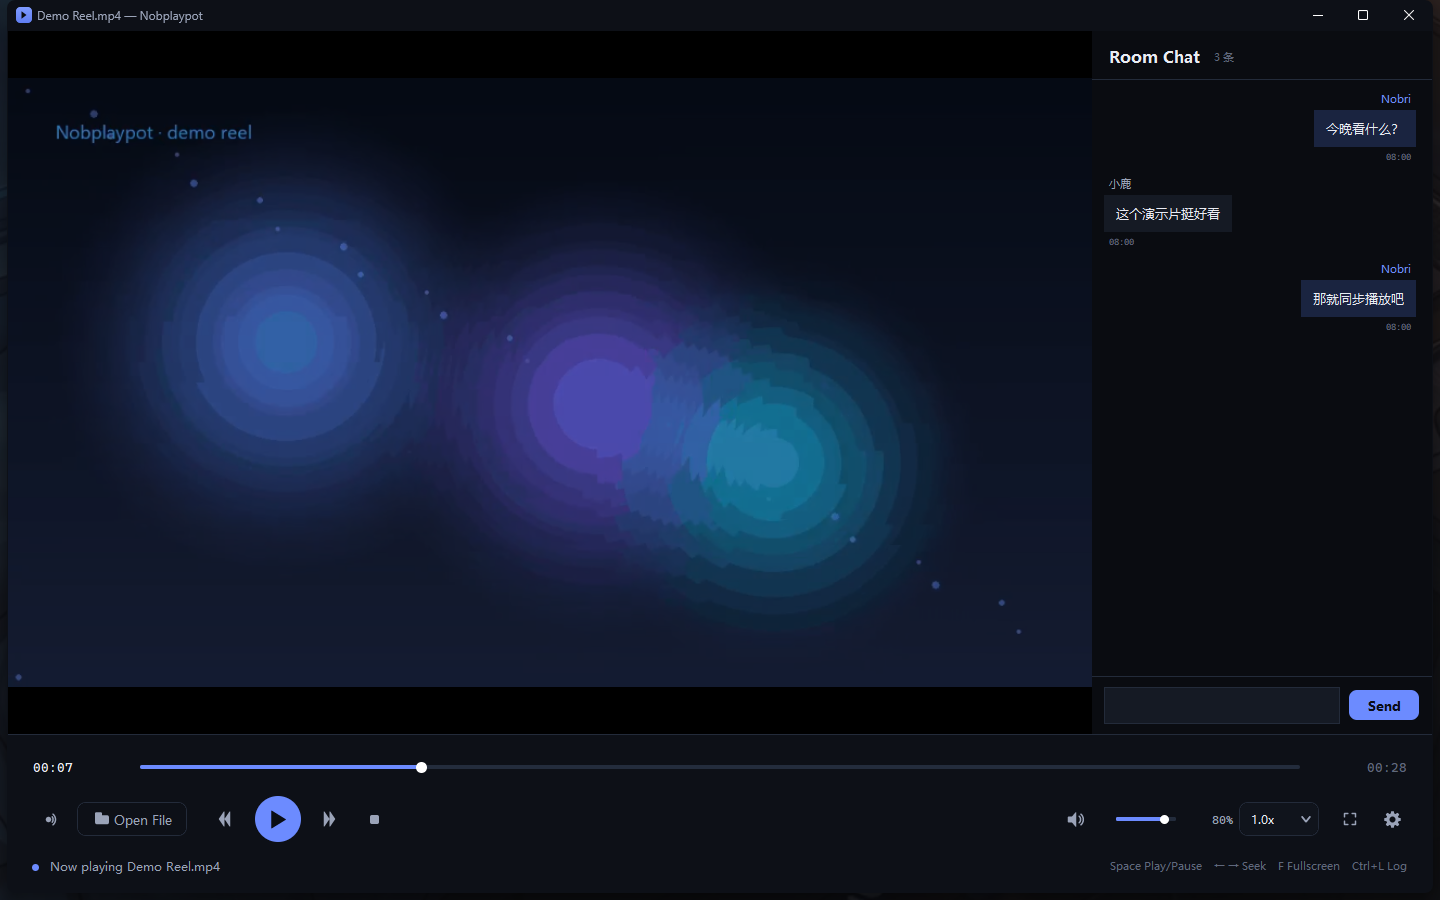
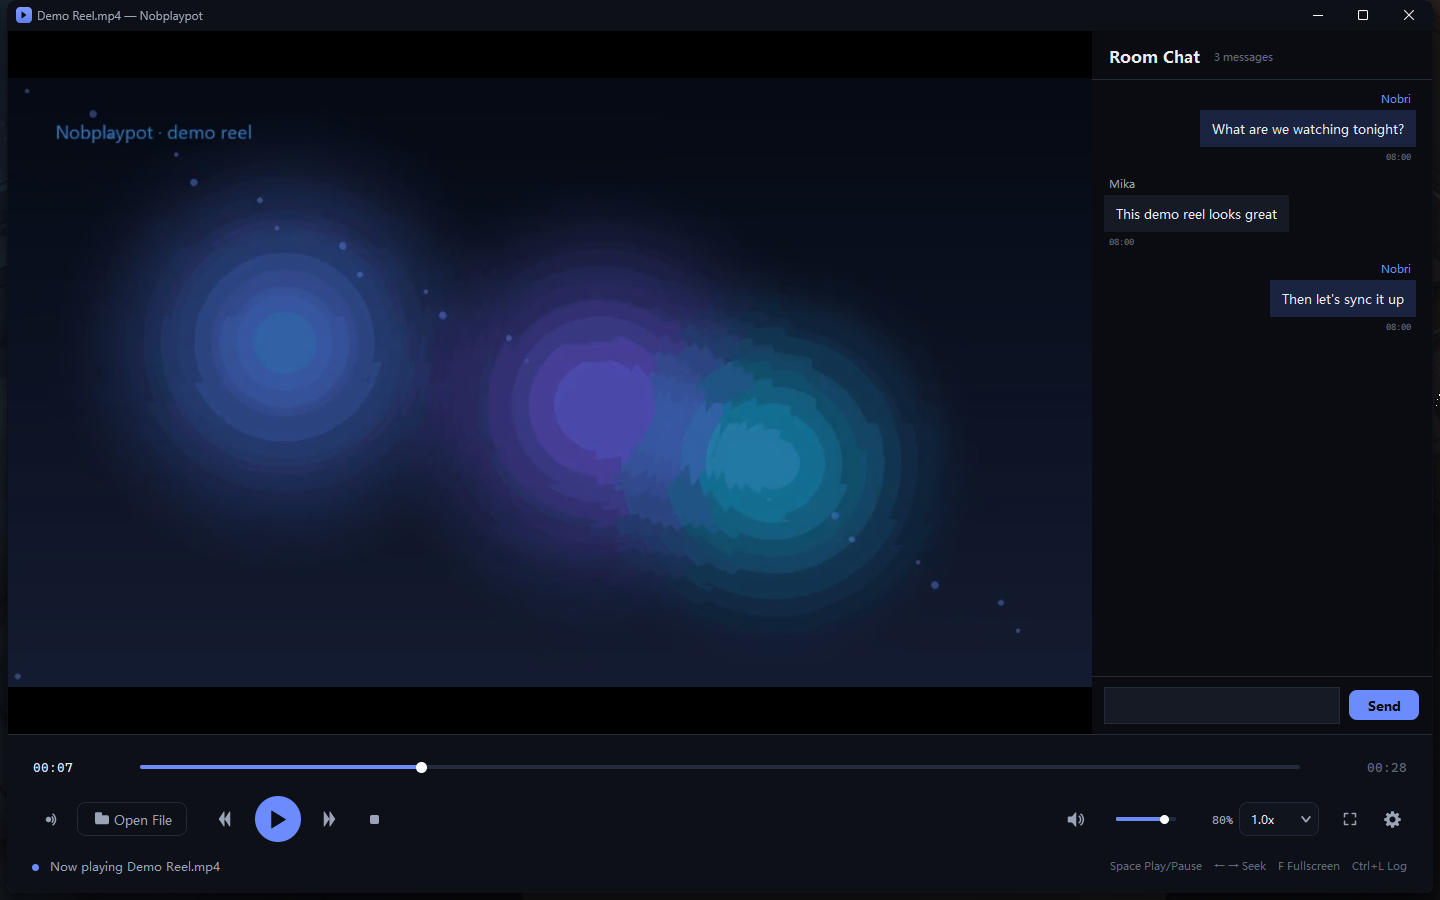
docs: idle-state hero shot, localized chat screenshots, playing shot; i18n chat counter

diff --git a/docs/index.html b/docs/index.html
@@ -151,7 +151,7 @@
         <p class="section-sub">点击任意截图可放大查看。</p>
       </header>
       <div class="gallery">
-        <figure class="shot shot--wide reveal"><img src="https://raw.githubusercontent.com/Nobri6039/Nobplaypot/main/screenshots/zh/main.png" alt="主界面" loading="lazy"><figcaption>主界面</figcaption></figure>
+        <figure class="shot shot--wide reveal"><img src="https://raw.githubusercontent.com/Nobri6039/Nobplaypot/main/screenshots/zh/playback.png" alt="播放本地文件" loading="lazy"><figcaption>播放本地文件</figcaption></figure>
         <figure class="shot reveal"><img src="https://raw.githubusercontent.com/Nobri6039/Nobplaypot/main/screenshots/zh/chat.png" alt="房间聊天" loading="lazy"><figcaption>房间聊天</figcaption></figure>
         <figure class="shot reveal"><img src="https://raw.githubusercontent.com/Nobri6039/Nobplaypot/main/screenshots/zh/settings.png" alt="设置 · 流式传输" loading="lazy"><figcaption>设置 · 流式传输</figcaption></figure>
         <figure class="shot reveal"><img src="https://raw.githubusercontent.com/Nobri6039/Nobplaypot/main/screenshots/zh/browser-sync.png" alt="浏览器同步起始页" loading="lazy"><figcaption>浏览器同步 · 起始页</figcaption></figure>

diff --git a/Nobplaypot.py b/Nobplaypot.py
@@ -5100,7 +5100,7 @@ class ChatPanel(tk.Frame):
             if not children:
                 break
             children[0].destroy()
-        self.count_label.configure(text=f"{len(self._messages)} 条")
+        self.count_label.configure(text=tr(f"{len(self._messages)} 条"))
         self.empty_label.pack_forget()
         if mine or at_bottom:
             self._schedule_scroll()
@@ -5114,7 +5114,7 @@ class ChatPanel(tk.Frame):
         for message in self._messages:
             self._render_message(message,
                                  mine=(message.get("sender_id") == my_id))
-        self.count_label.configure(text=f"{len(self._messages)} 条"
+        self.count_label.configure(text=tr(f"{len(self._messages)} 条")
                                    if self._messages else "")
         if self._messages:
             self.empty_label.pack_forget()
@@ -5144,7 +5144,7 @@ class ChatPanel(tk.Frame):
         try:
             if self._unread > 0:
                 self.unread_label.configure(
-                    text=f"{self._unread} 条新消息 ↓")
+                    text=tr(f"{self._unread} 条新消息 ↓"))
                 self.unread_label.place(in_=self._canvas, relx=0.5, rely=1.0,
                                         anchor="s", y=-6)
             else:

diff --git a/README.md b/README.md
@@ -12,13 +12,17 @@ A dark-themed video player for Windows built with **VLC (libvlc) + Tkinter**, ma
 
 The entire UI is hand-drawn (no stock ttk widgets): anti-aliased rounded corners and icons, a dark title bar, and a floating control island that rises from the bottom in fullscreen.
 
-![Main window](screenshots/en/main.png)
+![Empty state](screenshots/en/main.png)
 
 ## Screenshots
 
-**Main window · English UI**
+**Empty state · what you see on first launch**
 
-<img src="screenshots/en/main.png" width="860" alt="Main window">
+<img src="screenshots/en/main.png" width="860" alt="Empty state">
+
+**Playing a local file**
+
+<img src="screenshots/en/playback.png" width="860" alt="Playing a local file">
 
 **Room chat**
 

diff --git a/README.zh-CN.md b/README.zh-CN.md
@@ -12,13 +12,17 @@
 
 界面完全自绘（不使用 ttk 默认浅色控件），带抗锯齿圆角与图标、深色标题栏，以及全屏时从底部浮出的控制岛。
 
-![主界面](screenshots/zh/main.png)
+![空状态](screenshots/zh/main.png)
 
 ## 截图
 
-**主界面 · 中文界面**
+**空状态 · 刚打开软件时的样子**
 
-<img src="screenshots/zh/main.png" width="860" alt="主界面">
+<img src="screenshots/zh/main.png" width="860" alt="空状态">
+
+**播放本地文件**
+
+<img src="screenshots/zh/playback.png" width="860" alt="播放本地文件">
 
 **房间聊天**
 
